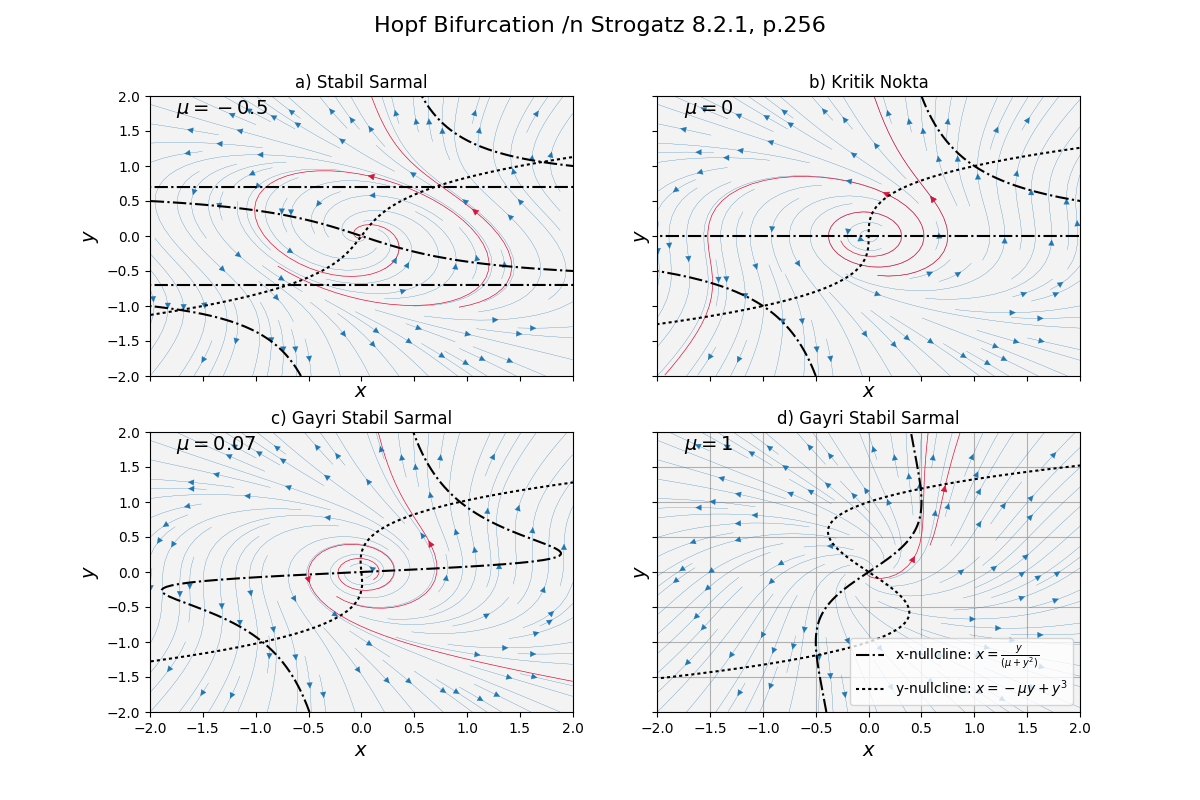
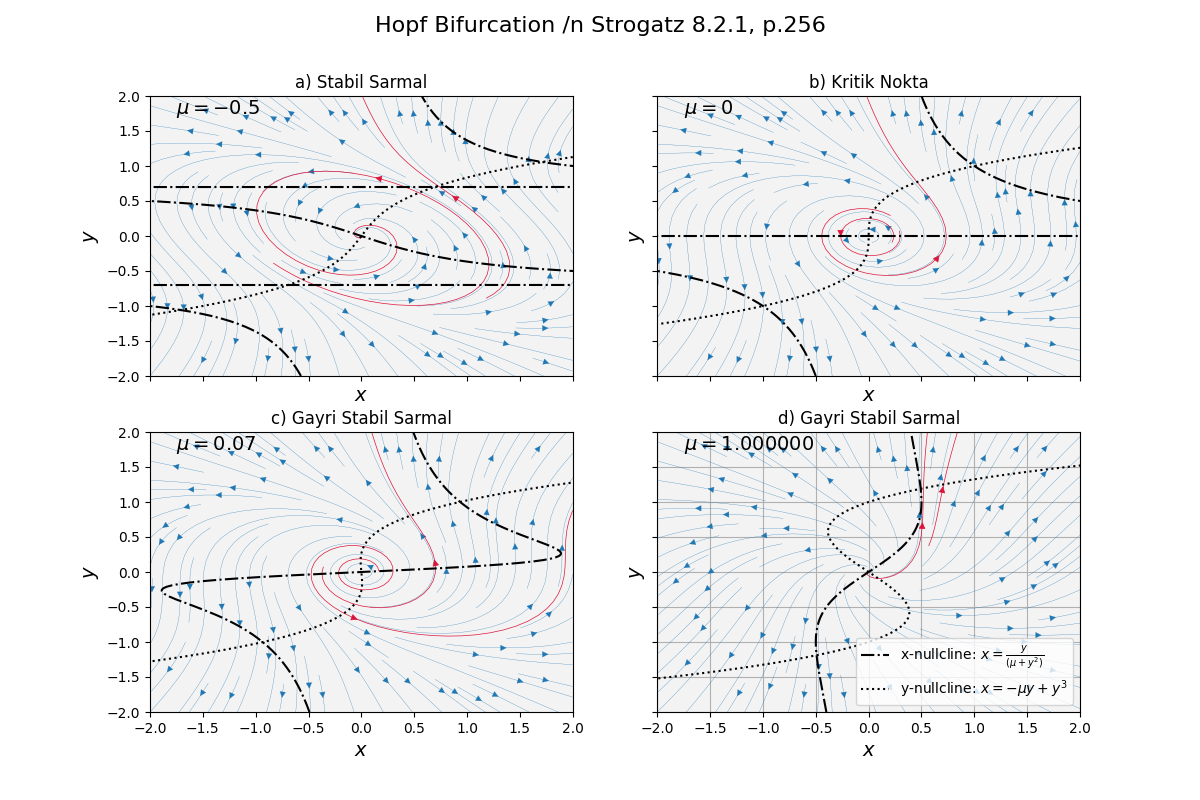
-

diff --git a/chaos/chaos_13/chaos_13.html b/chaos/chaos_13/chaos_13.html
@@ -437,9 +437,9 @@ class="sourceCode python"><code class="sourceCode python"><span id="cb1-1"><a hr
 <span id="cb1-97"><a href="#cb1-97" aria-hidden="true" tabindex="-1"></a>strmS <span class="op">=</span> ax3.streamplot(x1,y1, U, V, start_points<span class="op">=</span>start, color<span class="op">=</span><span class="st">&quot;crimson&quot;</span>, linewidth<span class="op">=</span><span class="fl">.5</span>)</span>
 <span id="cb1-98"><a href="#cb1-98" aria-hidden="true" tabindex="-1"></a></span>
 <span id="cb1-99"><a href="#cb1-99" aria-hidden="true" tabindex="-1"></a>ax3.set_title( <span class="st">&#39;d) Gayri Stabil Sarmal&#39;</span>, size<span class="op">=</span><span class="dv">12</span>)</span>
-<span id="cb1-100"><a href="#cb1-100" aria-hidden="true" tabindex="-1"></a>ax3.text(xmin<span class="op">+</span><span class="fl">.25</span>,ymax<span class="op">-</span><span class="fl">.25</span>, <span class="vs">r&#39;$\mu = </span><span class="sc">{0}</span><span class="vs">$&#39;</span>.<span class="bu">format</span>(mu),size<span class="op">=</span><span class="dv">14</span>)</span>
+<span id="cb1-100"><a href="#cb1-100" aria-hidden="true" tabindex="-1"></a>ax3.text(xmin<span class="op">+</span><span class="fl">.25</span>,ymax<span class="op">-</span><span class="fl">.25</span>, <span class="vs">r&#39;$\mu = </span><span class="sc">%f</span><span class="vs">$&#39;</span> <span class="op">%</span> mu,size<span class="op">=</span><span class="dv">14</span>)</span>
 <span id="cb1-101"><a href="#cb1-101" aria-hidden="true" tabindex="-1"></a>ax3.plot(y1<span class="op">/</span>(mu<span class="op">+</span>y1<span class="op">**</span><span class="dv">2</span>),x1, <span class="st">&#39;k-.&#39;</span>,lw<span class="op">=</span>lw, label<span class="op">=</span><span class="vs">r&#39;x-nullcline: $x = \frac</span><span class="sc">{y}</span><span class="vs">{(\mu+y^2)}$&#39;</span>)</span>
-<span id="cb1-102"><a href="#cb1-102" aria-hidden="true" tabindex="-1"></a>ax3.plot(<span class="op">-</span>mu<span class="op">*</span>y1<span class="op">+</span>y1<span class="op">**</span><span class="dv">3</span>,x1, <span class="st">&#39;k:&#39;</span>, lw<span class="op">=</span>lw, label<span class="op">=</span><span class="vs">r&#39;y-nullcline: $x =  -\mu y + y^3}$&#39;</span>)</span>
+<span id="cb1-102"><a href="#cb1-102" aria-hidden="true" tabindex="-1"></a>ax3.plot(<span class="op">-</span>mu<span class="op">*</span>y1<span class="op">+</span>y1<span class="op">**</span><span class="dv">3</span>,x1, <span class="st">&#39;k:&#39;</span>, lw<span class="op">=</span>lw, label<span class="op">=</span><span class="vs">r&#39;y-nullcline: $x =  -\mu y + y^3$&#39;</span>)</span>
 <span id="cb1-103"><a href="#cb1-103" aria-hidden="true" tabindex="-1"></a>ax3.set_xlim([xmin,xmax])</span>
 <span id="cb1-104"><a href="#cb1-104" aria-hidden="true" tabindex="-1"></a>ax3.set_ylim([ymin,ymax])</span>
 <span id="cb1-105"><a href="#cb1-105" aria-hidden="true" tabindex="-1"></a>ax3.set_xlabel(<span class="vs">r&quot;$ x$&quot;</span>,size<span class="op">=</span><span class="dv">14</span>)</span>

diff --git a/chaos/chaos_13/ders_13.html b/chaos/chaos_13/ders_13.html
@@ -437,9 +437,9 @@ class="sourceCode python"><code class="sourceCode python"><span id="cb1-1"><a hr
 <span id="cb1-97"><a href="#cb1-97" aria-hidden="true" tabindex="-1"></a>strmS <span class="op">=</span> ax3.streamplot(x1,y1, U, V, start_points<span class="op">=</span>start, color<span class="op">=</span><span class="st">&quot;crimson&quot;</span>, linewidth<span class="op">=</span><span class="fl">.5</span>)</span>
 <span id="cb1-98"><a href="#cb1-98" aria-hidden="true" tabindex="-1"></a></span>
 <span id="cb1-99"><a href="#cb1-99" aria-hidden="true" tabindex="-1"></a>ax3.set_title( <span class="st">&#39;d) Gayri Stabil Sarmal&#39;</span>, size<span class="op">=</span><span class="dv">12</span>)</span>
-<span id="cb1-100"><a href="#cb1-100" aria-hidden="true" tabindex="-1"></a>ax3.text(xmin<span class="op">+</span><span class="fl">.25</span>,ymax<span class="op">-</span><span class="fl">.25</span>, <span class="vs">r&#39;$\mu = </span><span class="sc">{0}</span><span class="vs">$&#39;</span>.<span class="bu">format</span>(mu),size<span class="op">=</span><span class="dv">14</span>)</span>
+<span id="cb1-100"><a href="#cb1-100" aria-hidden="true" tabindex="-1"></a>ax3.text(xmin<span class="op">+</span><span class="fl">.25</span>,ymax<span class="op">-</span><span class="fl">.25</span>, <span class="vs">r&#39;$\mu = </span><span class="sc">%f</span><span class="vs">$&#39;</span> <span class="op">%</span> mu,size<span class="op">=</span><span class="dv">14</span>)</span>
 <span id="cb1-101"><a href="#cb1-101" aria-hidden="true" tabindex="-1"></a>ax3.plot(y1<span class="op">/</span>(mu<span class="op">+</span>y1<span class="op">**</span><span class="dv">2</span>),x1, <span class="st">&#39;k-.&#39;</span>,lw<span class="op">=</span>lw, label<span class="op">=</span><span class="vs">r&#39;x-nullcline: $x = \frac</span><span class="sc">{y}</span><span class="vs">{(\mu+y^2)}$&#39;</span>)</span>
-<span id="cb1-102"><a href="#cb1-102" aria-hidden="true" tabindex="-1"></a>ax3.plot(<span class="op">-</span>mu<span class="op">*</span>y1<span class="op">+</span>y1<span class="op">**</span><span class="dv">3</span>,x1, <span class="st">&#39;k:&#39;</span>, lw<span class="op">=</span>lw, label<span class="op">=</span><span class="vs">r&#39;y-nullcline: $x =  -\mu y + y^3}$&#39;</span>)</span>
+<span id="cb1-102"><a href="#cb1-102" aria-hidden="true" tabindex="-1"></a>ax3.plot(<span class="op">-</span>mu<span class="op">*</span>y1<span class="op">+</span>y1<span class="op">**</span><span class="dv">3</span>,x1, <span class="st">&#39;k:&#39;</span>, lw<span class="op">=</span>lw, label<span class="op">=</span><span class="vs">r&#39;y-nullcline: $x =  -\mu y + y^3$&#39;</span>)</span>
 <span id="cb1-103"><a href="#cb1-103" aria-hidden="true" tabindex="-1"></a>ax3.set_xlim([xmin,xmax])</span>
 <span id="cb1-104"><a href="#cb1-104" aria-hidden="true" tabindex="-1"></a>ax3.set_ylim([ymin,ymax])</span>
 <span id="cb1-105"><a href="#cb1-105" aria-hidden="true" tabindex="-1"></a>ax3.set_xlabel(<span class="vs">r&quot;$ x$&quot;</span>,size<span class="op">=</span><span class="dv">14</span>)</span>
